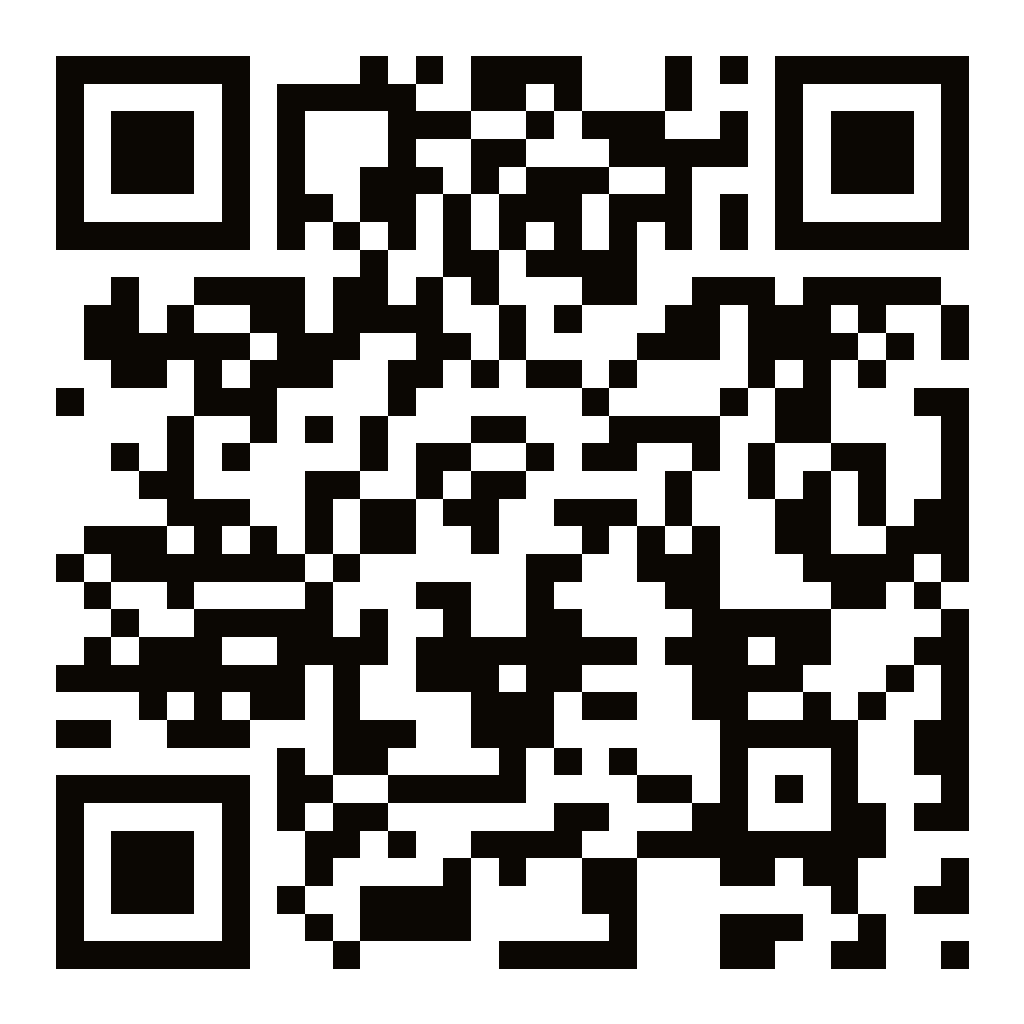
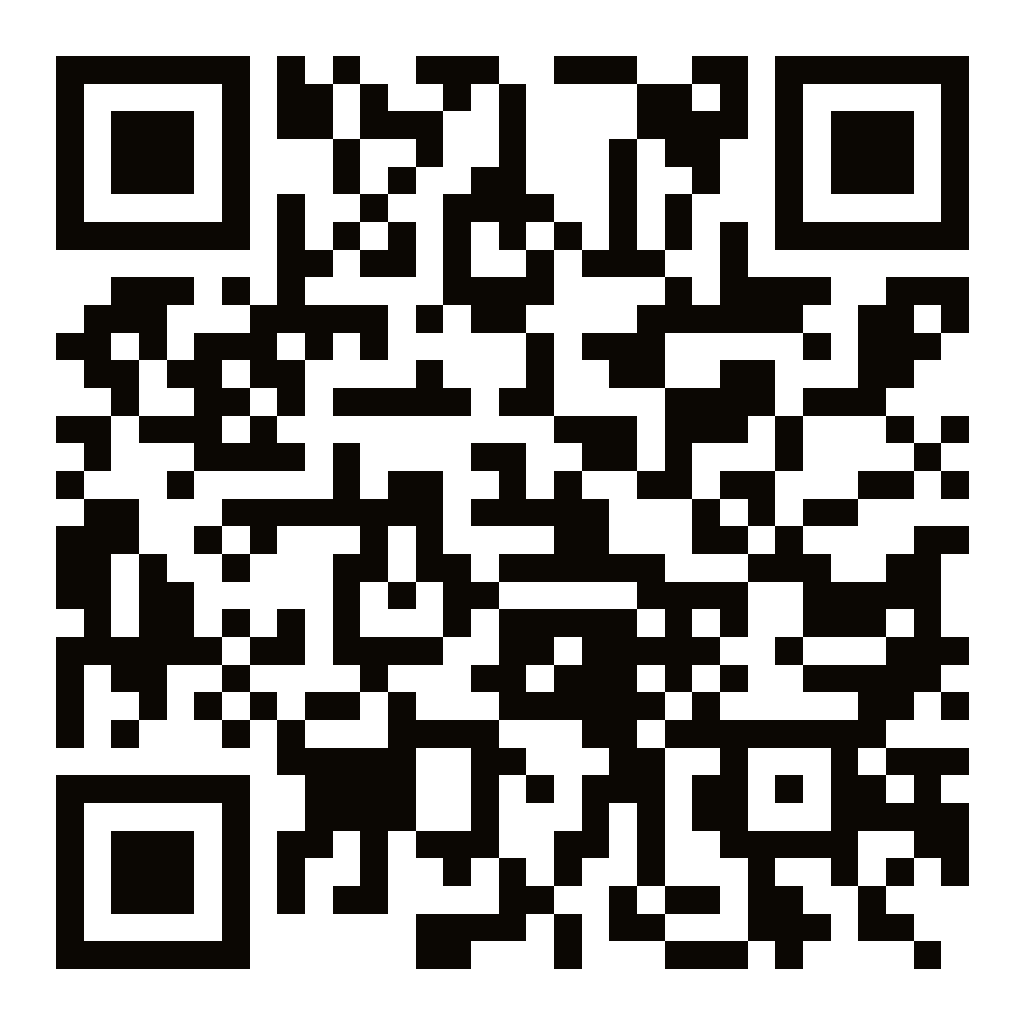
Generate the QR in the browser from the live page URL
Scanning the QR opened a dead site. The image itself was fine — it
decoded cleanly — but it encoded https://pawani-irushini.vercel.app
while the repo, and therefore the Vercel domain, is pavani-irushini.
A build-time QR silently goes stale like this whenever the domain
differs from the default baked into the generator.

ShareActions now renders the QR client-side with qrcode.toDataURL()
from window.location, so it always encodes the URL the visitor is
actually on, whatever domain serves the page. The download button
hands over that same data URL. public/qr.png stays as the pre-JS
placeholder and for print use, and the spelling is corrected in it and
in the metadataBase and generator defaults.

Moved qrcode from devDependencies to dependencies since it now ships
to the client.

diff --git a/app/ShareActions.js b/app/ShareActions.js
@@ -1,14 +1,16 @@
 "use client";
 
 import { useEffect, useState } from "react";
+import QRCode from "qrcode";
 
-const FALLBACK_URL = "https://pawani-irushini.vercel.app";
+const FALLBACK_URL = "https://pavani-irushini.vercel.app";
 
 const SHARE_TEXT =
   "✨ සැප්තැම්බර් 13, මේ ඉරිදා! Hiru Star Season 5 – SUPER 30 හි පවනි ඉරුෂිනි. රාත්රී 7.30 සිට Hiru TV – LIVE. කොළ මනාපය ලබා දෙන්න! 💚";
 
 export default function ShareActions() {
   const [url, setUrl] = useState(FALLBACK_URL);
+  const [qrSrc, setQrSrc] = useState("/qr.png");
   const [copied, setCopied] = useState(false);
   const [canNativeShare, setCanNativeShare] = useState(false);
 
@@ -16,6 +18,27 @@ export default function ShareActions() {
     setUrl(window.location.origin + window.location.pathname);
     setCanNativeShare(typeof navigator !== "undefined" && !!navigator.share);
   }, []);
+
+  // Draw the QR from the URL the page is actually served on, so it never
+  // points at a stale build-time domain.
+  useEffect(() => {
+    let cancelled = false;
+    QRCode.toDataURL(url, {
+      errorCorrectionLevel: "H",
+      margin: 2,
+      width: 1024,
+      color: { dark: "#0b0703", light: "#ffffff" },
+    })
+      .then((dataUrl) => {
+        if (!cancelled) setQrSrc(dataUrl);
+      })
+      .catch(() => {
+        // Keep the pre-generated public/qr.png already in state.
+      });
+    return () => {
+      cancelled = true;
+    };
+  }, [url]);
 
   useEffect(() => {
     if (!copied) return;
@@ -54,6 +77,12 @@ export default function ShareActions() {
 
   return (
     <>
+      <div className="qr-frame">
+        {/* eslint-disable-next-line @next/next/no-img-element */}
+        <img src={qrSrc} alt="මෙම පිටුවට යන QR කේතය" width={200} height={200} />
+      </div>
+      <p className="qr-caption">QR කේතය Scan කර මෙම පිටුවට පිවිසෙන්න</p>
+
       <div className="url-row">
         <input
           id="site-url-input"
@@ -70,7 +99,7 @@ export default function ShareActions() {
       </div>
 
       <div className="share-grid">
-        <a className="btn btn-ghost" href="/qr.png" download="pawani-irushini-qr.png">
+        <a className="btn btn-ghost" href={qrSrc} download="pawani-irushini-qr.png">
           ⬇ QR Download
         </a>
 

diff --git a/app/page.js b/app/page.js
@@ -54,14 +54,6 @@ export default function Home() {
       <section className="qr">
         <h2 className="section-title">📷 මෙම පිටුව බෙදාගන්න</h2>
 
-        <div className="qr-frame">
-          {/* eslint-disable-next-line @next/next/no-img-element */}
-          <img src="/qr.png" alt="මෙම පිටුවට යන QR කේතය" width={200} height={200} />
-        </div>
-        <p className="qr-caption">
-          QR කේතය Scan කර මෙම පිටුවට පිවිසෙන්න
-        </p>
-
         <ShareActions />
       </section>
 

diff --git a/app/layout.js b/app/layout.js
@@ -8,7 +8,7 @@ const sinhala = Noto_Sans_Sinhala({
   variable: "--font-sinhala",
 });
 
-const SITE_URL = process.env.NEXT_PUBLIC_SITE_URL || "https://pawani-irushini.vercel.app";
+const SITE_URL = process.env.NEXT_PUBLIC_SITE_URL || "https://pavani-irushini.vercel.app";
 
 export const metadata = {
   metadataBase: new URL(SITE_URL),
